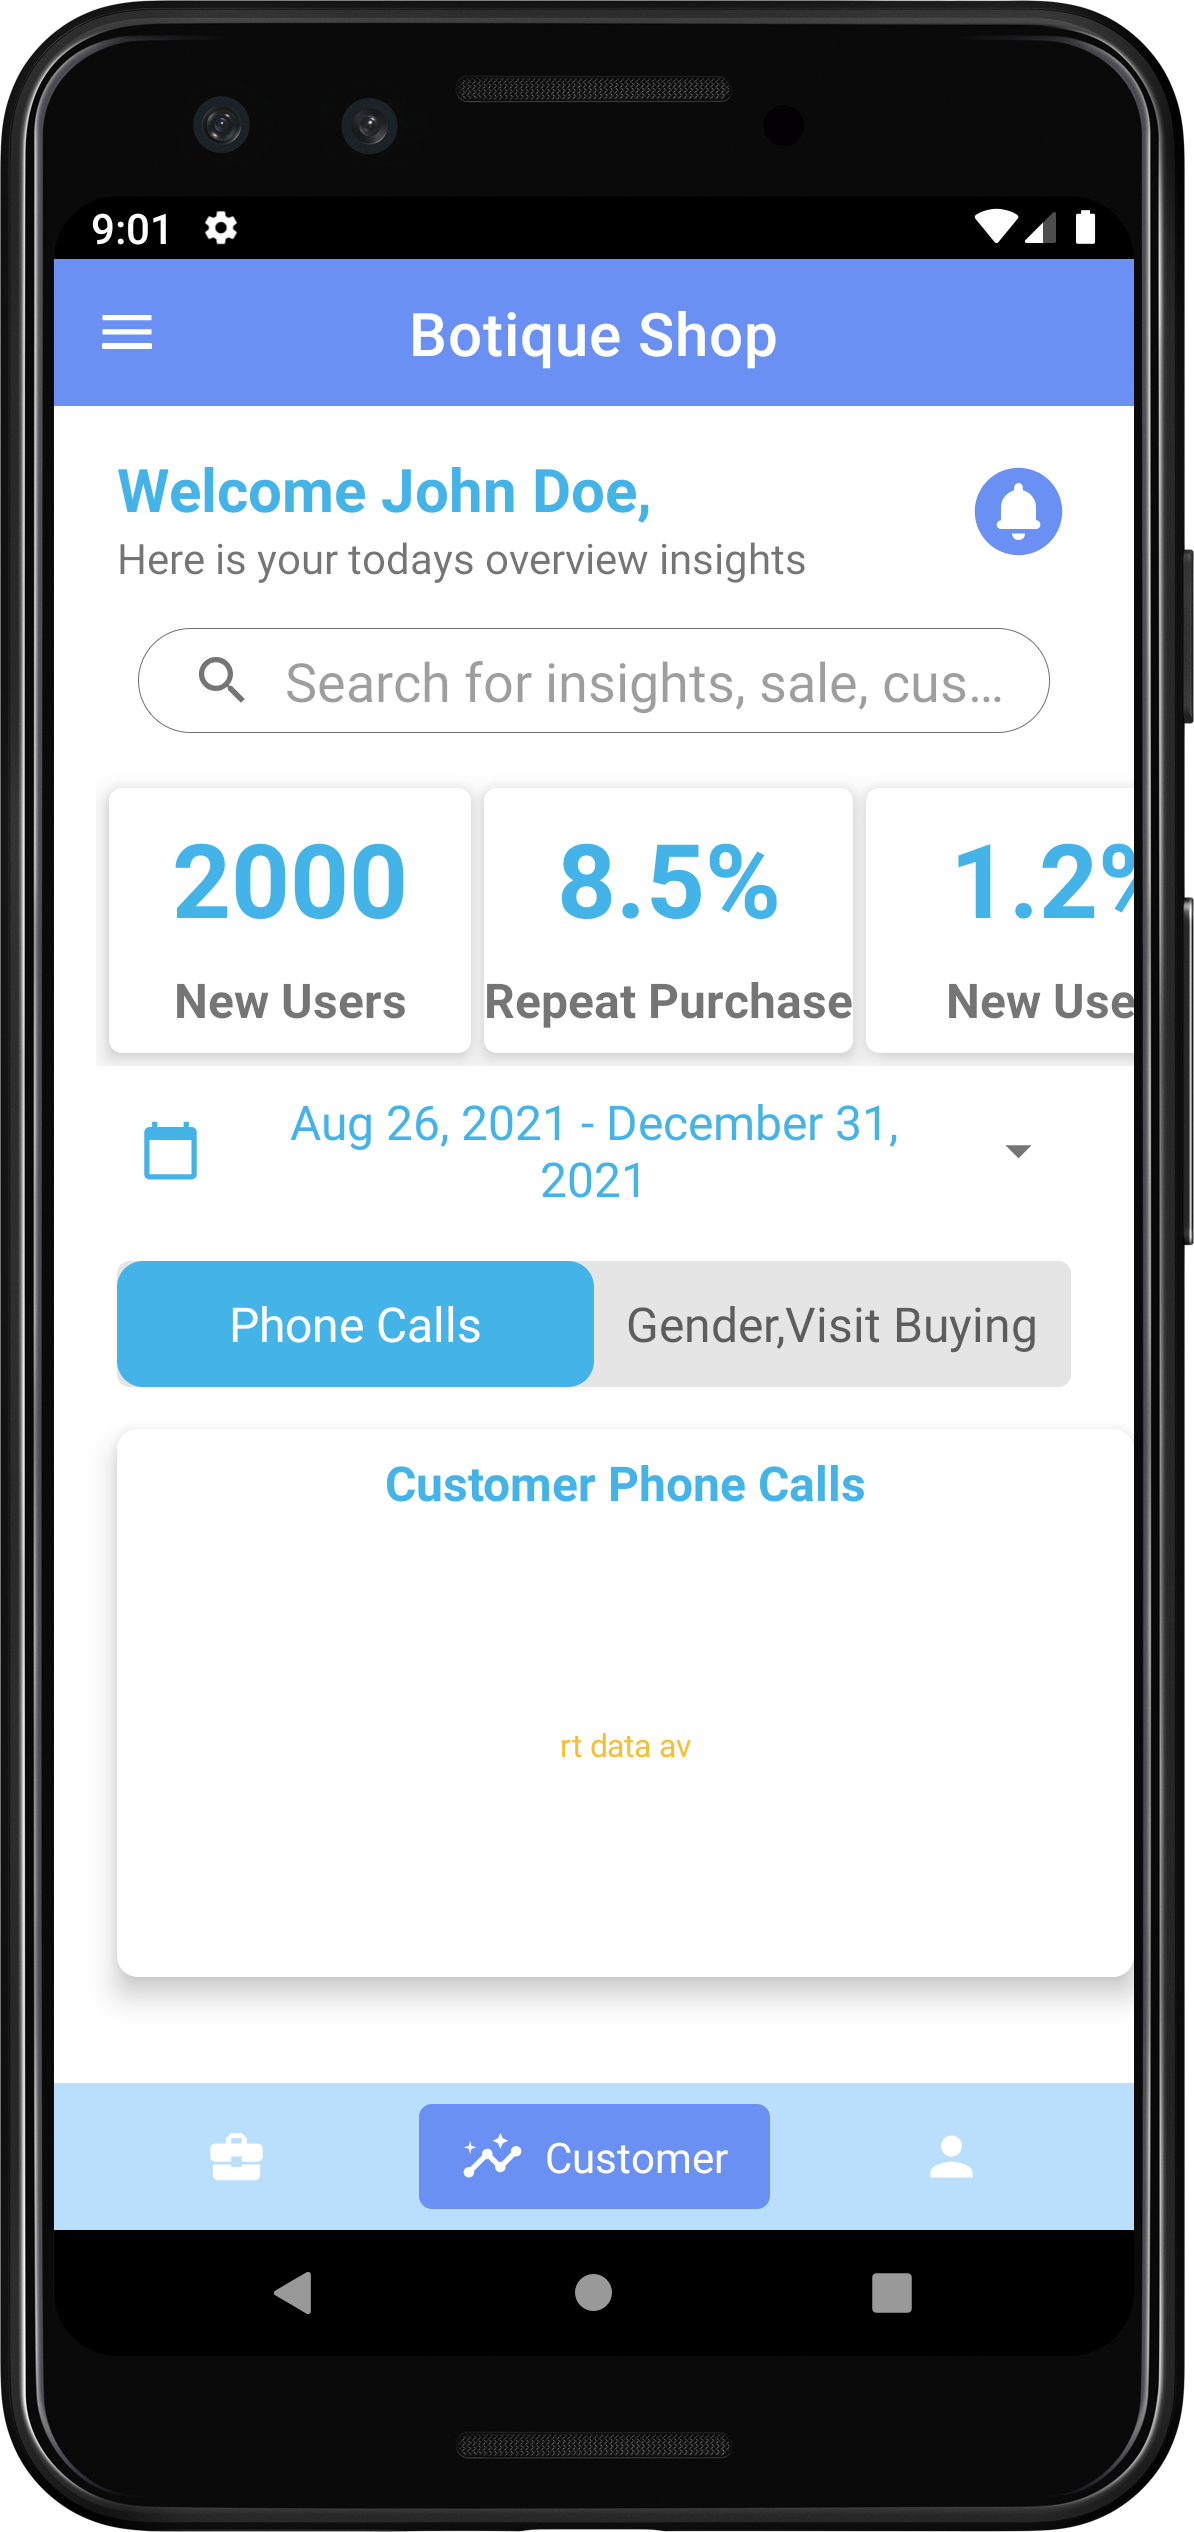
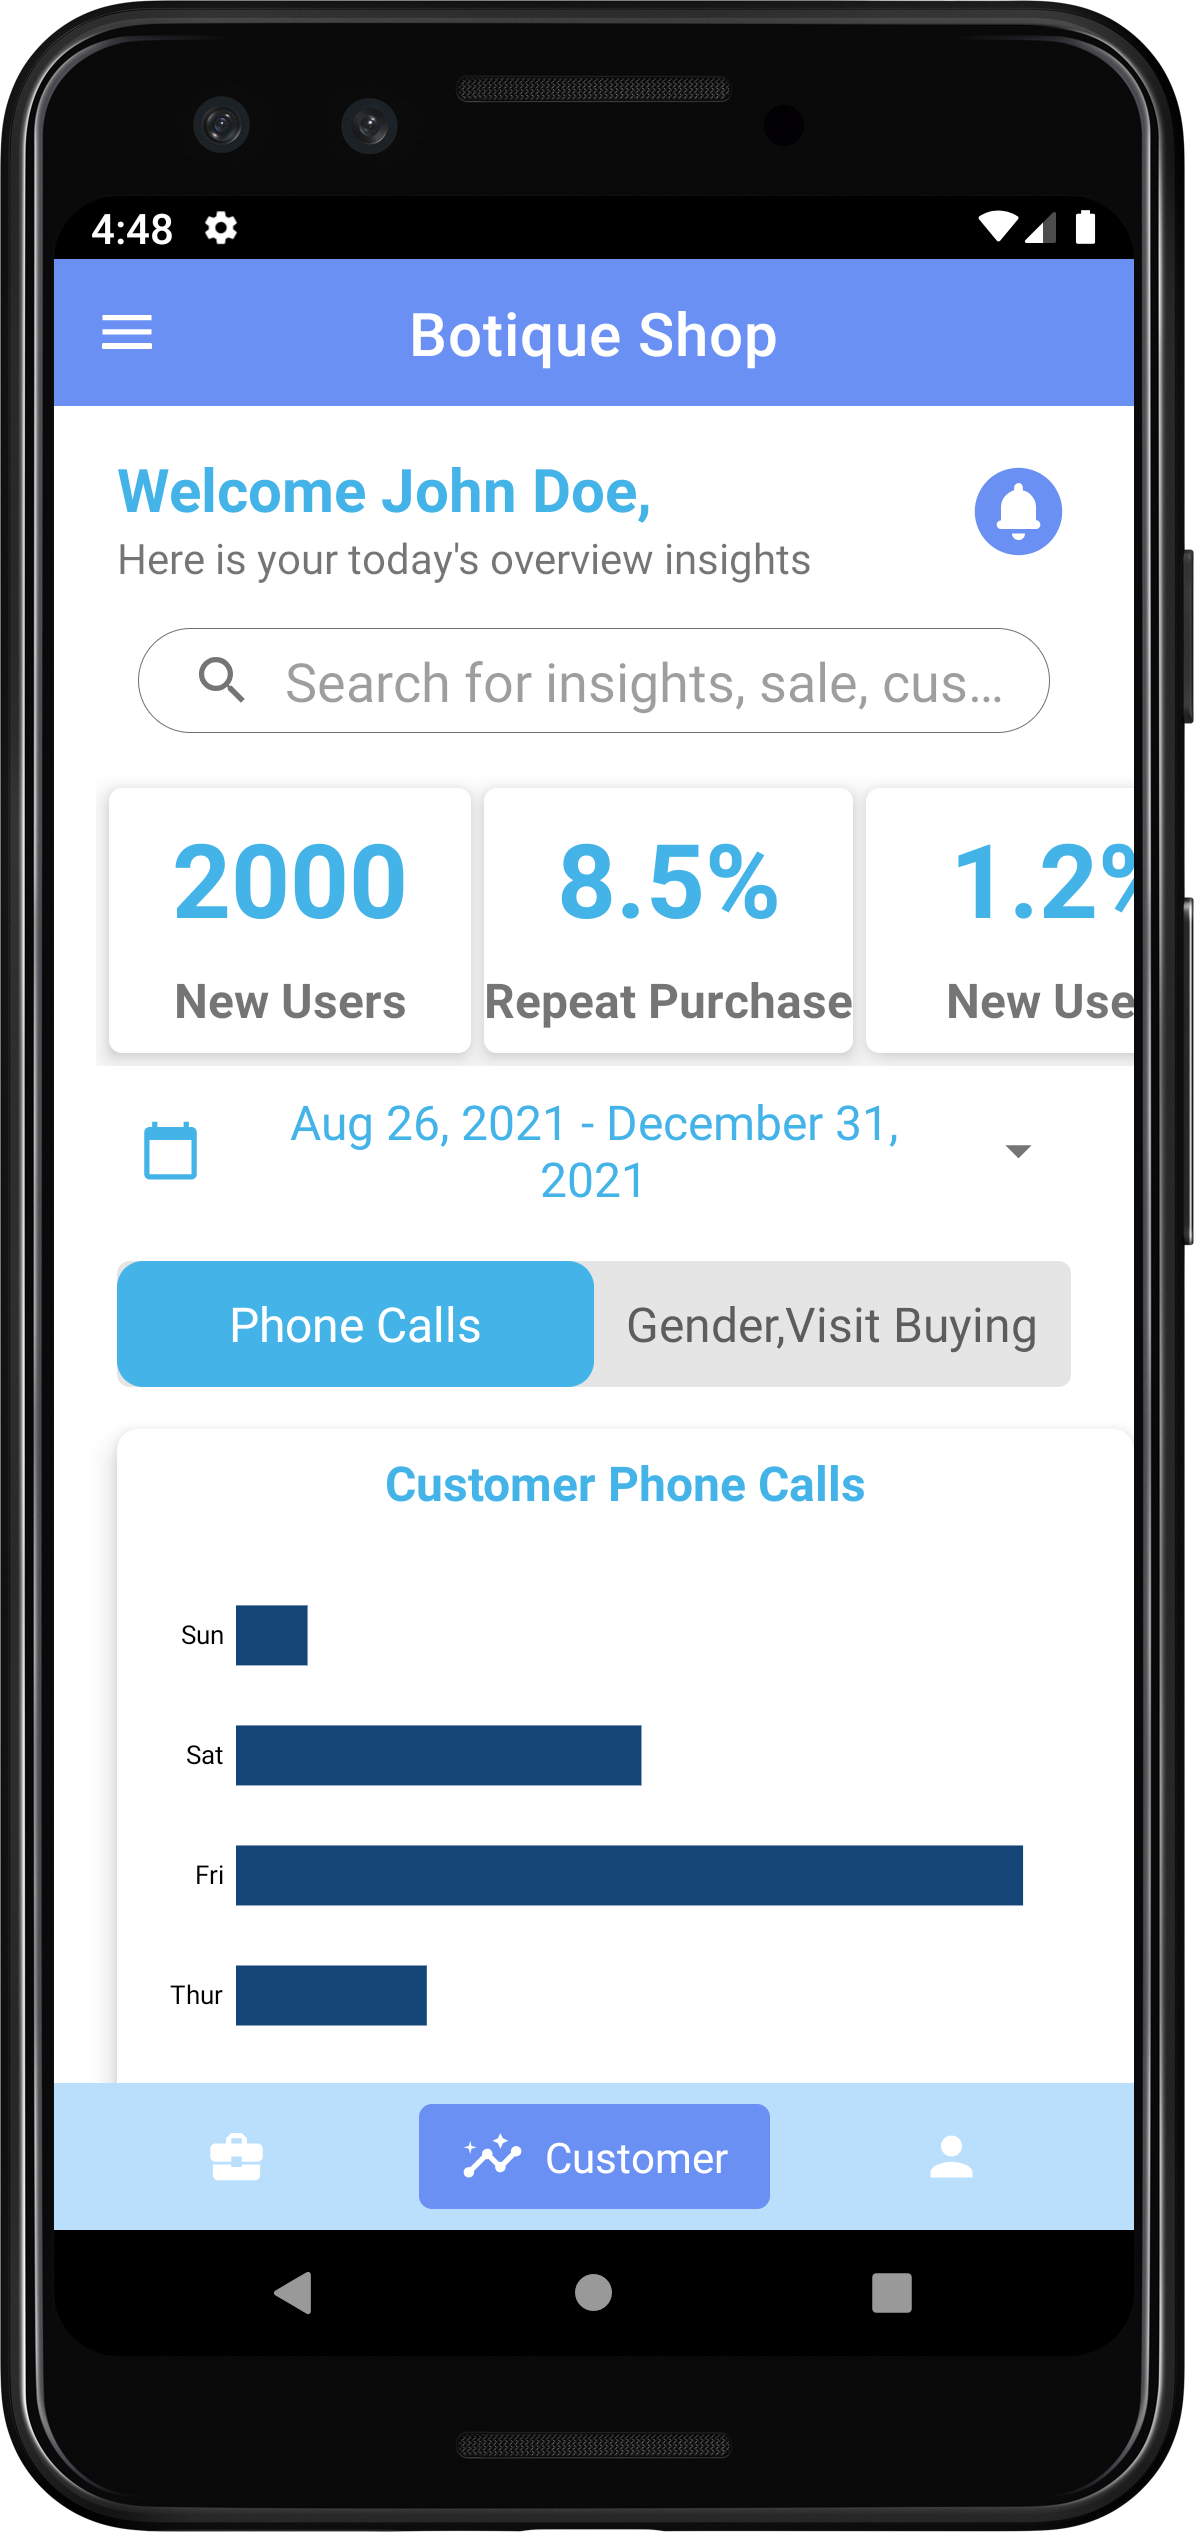
code update

Changed region(s): [[0.093, 0.624, 0.9606, 0.8112], [0.3719, 0.2184, 0.6817, 0.2496], [0.062, 0.0624, 0.1549, 0.0936]]

diff --git a/app/src/main/java/com/siele/mkononiapptest/ui/CustomersInsights.kt b/app/src/main/java/com/siele/mkononiapptest/ui/CustomersInsights.kt
@@ -5,7 +5,15 @@ import android.view.LayoutInflater
 import android.view.View
 import android.view.ViewGroup
 import androidx.fragment.app.Fragment
+import com.github.mikephil.charting.components.AxisBase
+import com.github.mikephil.charting.components.XAxis
+import com.github.mikephil.charting.components.YAxis
+import com.github.mikephil.charting.data.BarData
+import com.github.mikephil.charting.data.BarDataSet
+import com.github.mikephil.charting.data.BarEntry
+import com.github.mikephil.charting.formatter.ValueFormatter
 import com.siele.mkononiapptest.MainActivity
+import com.siele.mkononiapptest.R
 import com.siele.mkononiapptest.databinding.FragmentCustomersInsightsBinding
 import com.siele.mkononiapptest.interfaces.DrawerAndBarsLocker
 import com.siele.mkononiapptest.interfaces.DrawerClosed
@@ -27,7 +35,72 @@ class CustomersInsights : Fragment() {
             updateBottomNav()
             handleBottomNavActions()
         }
+        binding.horizontalChart.isHorizontalScrollBarEnabled = true
+
+        setData()
+
+
 
         return binding.root
+    }
+
+    private fun setData() {
+        val entryValues = arrayListOf<BarEntry>()
+
+        entryValues.add(BarEntry(0f, 18f))
+        entryValues.add(BarEntry(1f, 24f))
+        entryValues.add(BarEntry(2f, 35f))
+        entryValues.add(BarEntry(3f, 20f))
+        entryValues.add(BarEntry(4f, 45f))
+        entryValues.add(BarEntry(5f, 29F))
+        entryValues.add(BarEntry(6f, 15F))
+
+        val days = arrayListOf("Mon", "Tue", "Wed", "Thur", "Fri", "Sat", "Sun")
+
+        val dataSet = BarDataSet(entryValues, "")
+        dataSet.color = resources.getColor(R.color.dark_blue, null)
+        val barData = BarData(dataSet)
+        val formatter = object :ValueFormatter(){
+            override fun getAxisLabel(value: Float, axis: AxisBase?): String {
+                return days.getOrNull(value.toInt())?:value.toString()
+            }
+        }
+        barData.barWidth = 0.5f
+
+        binding.horizontalChart.apply {
+            description = null
+            legend.isEnabled = false
+            data = barData
+            animateY(2000)
+            invalidate()
+            xAxis.apply {
+                setDrawGridLines(false)
+                position = XAxis.XAxisPosition.BOTTOM
+                isEnabled = true
+                valueFormatter = formatter
+                labelCount = 7
+                setDrawAxisLine(false)
+                spaceMin = 0.5f
+            }
+            axisLeft.apply {
+                setDrawGridLines(false)
+                setDrawGridLines(false)
+                setDrawZeroLine(false)
+                isEnabled = false
+
+
+            }
+            axisRight.apply {
+                axisMaximum = 50F
+                axisMinimum = 0f
+                setDrawGridLines(false)
+                setDrawGridLines(false)
+                setDrawZeroLine(true)
+                setDrawAxisLine(false)
+                setPosition(YAxis.YAxisLabelPosition.OUTSIDE_CHART)
+            }
+            axisRight.minWidth = 0F
+        }
+
     }
 }

diff --git a/app/src/main/java/com/siele/mkononiapptest/ui/SalesInsights.kt b/app/src/main/java/com/siele/mkononiapptest/ui/SalesInsights.kt
@@ -1,14 +1,17 @@
 package com.siele.mkononiapptest.ui
 
+import android.graphics.Color
 import android.os.Bundle
 import androidx.fragment.app.Fragment
 import android.view.LayoutInflater
 import android.view.View
 import android.view.ViewGroup
 import com.siele.mkononiapptest.MainActivity
+import com.siele.mkononiapptest.R
 import com.siele.mkononiapptest.databinding.FragmentSalesInsightsBinding
 import com.siele.mkononiapptest.interfaces.DrawerClosed
 import com.siele.mkononiapptest.interfaces.DrawerAndBarsLocker
+import org.eazegraph.lib.models.PieModel
 
 
 class SalesInsights : Fragment() {
@@ -26,6 +29,17 @@ class SalesInsights : Fragment() {
             handleSideNavClicks()
             updateBottomNav()
             handleBottomNavActions()
+        }
+        binding.apply {
+            pieChart.apply {
+                addPieSlice(PieModel("Roses",55F,resources.getColor(R.color.roses_color, null)))
+                addPieSlice(PieModel("Daffoiles",20F,resources.getColor(R.color.daffoiles_color, null)))
+                addPieSlice(PieModel("Lilies",29F,resources.getColor(R.color.lilies_color, null)))
+                addPieSlice(PieModel("Daises",9F,resources.getColor(R.color.daises_color, null)))
+                startAnimation()
+                innerValueString = "55%"
+            }
+
         }
         return binding.root
     }
